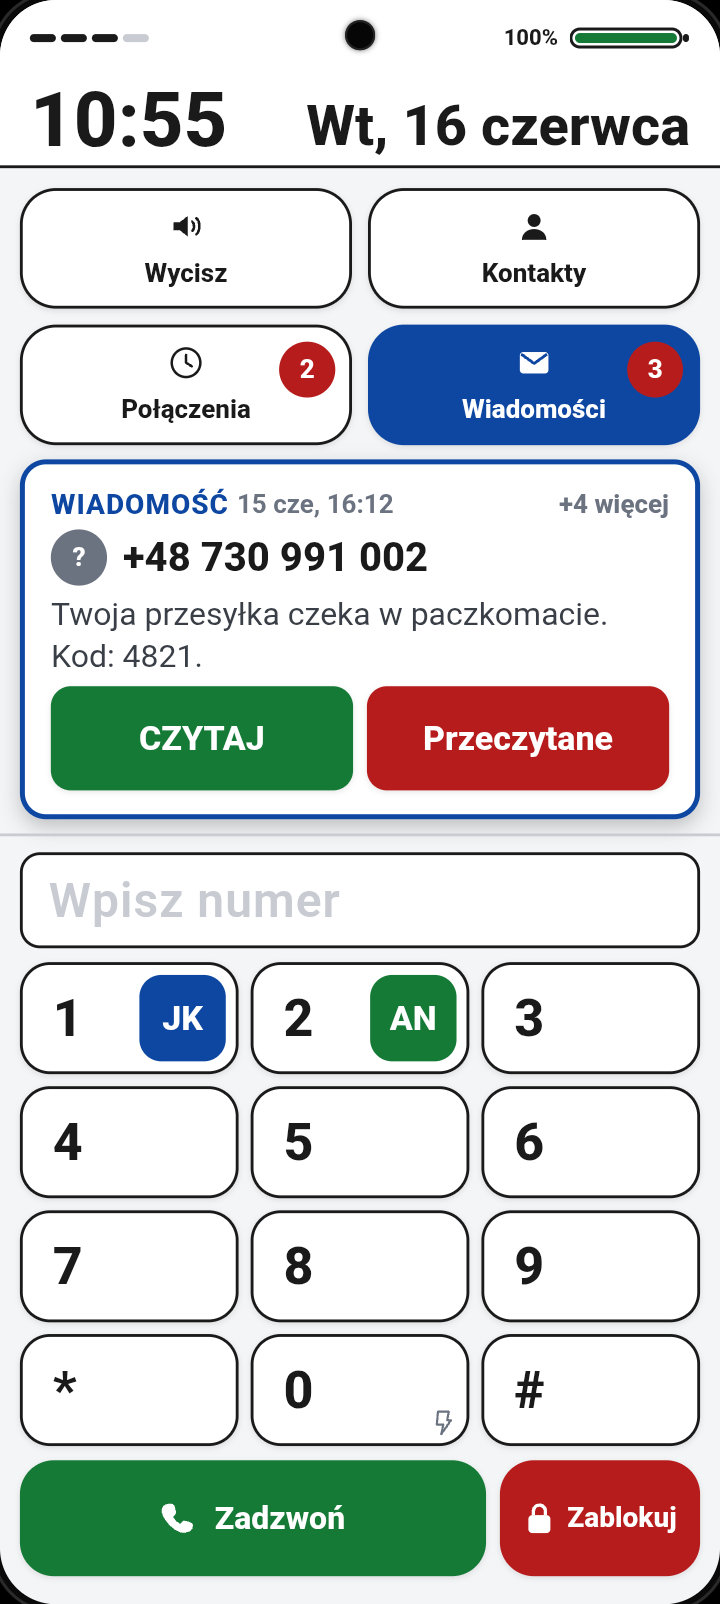
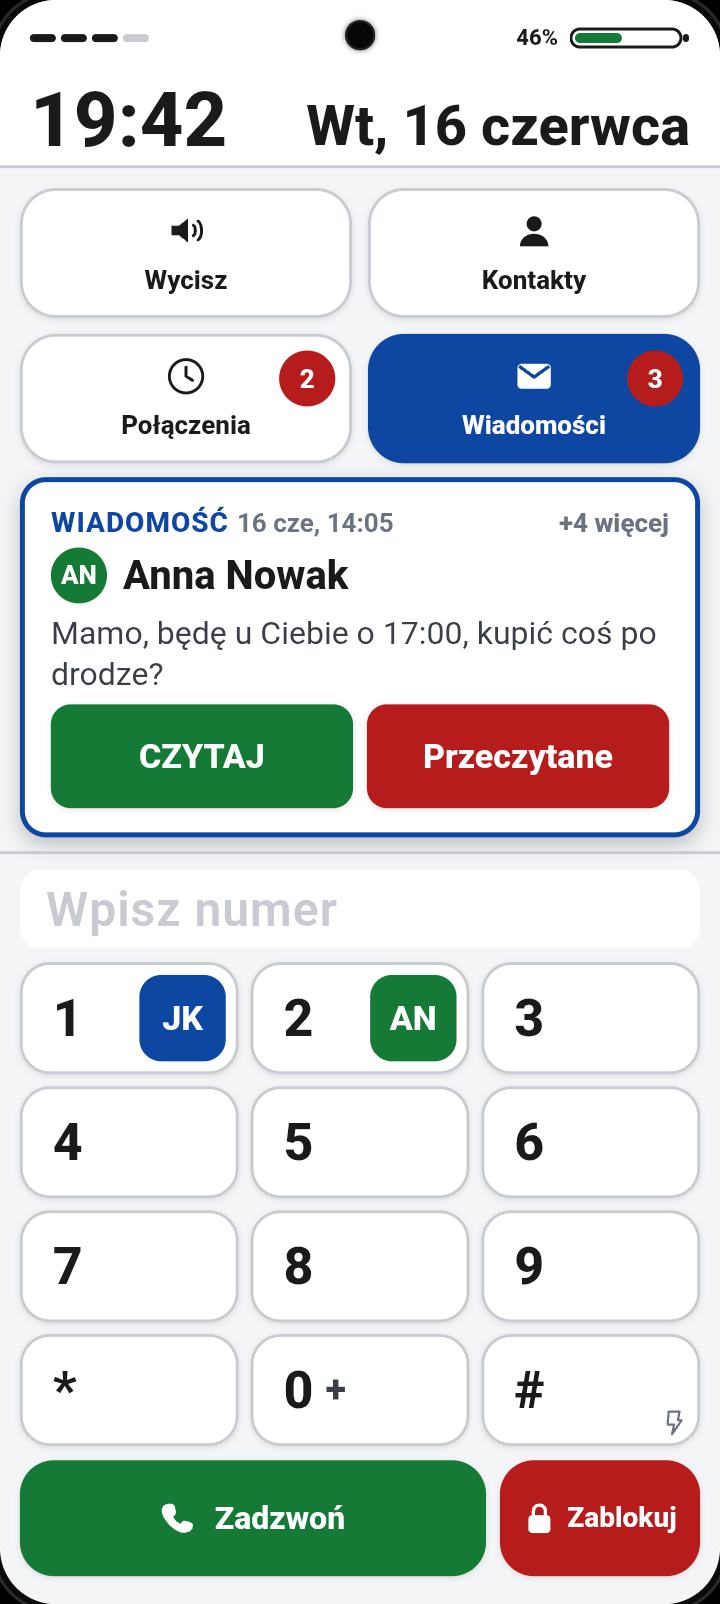
README: nowe zrzuty (13 widoków, w tym bez powiadomień) + redakcja
- Galeria od nowa: 13 zrzutów wg spisu widoków, w tym wariant "Główny bez
  powiadomień", wideorozmowa, ostatnie połączenia z osobą, blokada ekranu.
- Spis widoków: "Ostatnie połączenia z tą osobą" (zamiast "z tym numerem").
- "Jak działa?" wchłania funkcje (bez osobnego podnagłówka "Funkcje").
- Dopisane funkcje: klawiatura tonowa w rozmowie (wyświetlacz w stylu pola
  "Wpisz numer"), sygnał "najpierw wpisz numer" (miganie pola tylko przy
  świadomym Zadzwoń), czytelny badge liczby w obu motywach, oznaczenie
  nieodebranej wideorozmowy na liście Połączeń.

diff --git a/README.md b/README.md
@@ -15,13 +15,17 @@ Czysty **vanilla HTML/CSS/JS**, bez frameworków i zależności.
 
 ## Galeria
 
-| Główny | Kontakty | Wiadomości |
+| Główny | Główny (bez powiadomień) | Kontakty |
 |:---:|:---:|:---:|
-| ![Główny](screenshots/01-home.png) | ![Kontakty](screenshots/02-kontakty.png) | ![Wiadomości](screenshots/03-wiadomosci.png) |
-| **Czytanie wiadomości** | **Połączenia** | **Połączenie przychodzące** |
-| ![Czytanie wiadomości](screenshots/04-wiadomosc.png) | ![Połączenia](screenshots/05-polaczenia.png) | ![Przychodzące](screenshots/06-przychodzace.png) |
-| **Rozmowa** | **Potwierdzenie dzwonienia** | **Tryb ciemny** |
-| ![Rozmowa](screenshots/07-rozmowa.png) | ![Potwierdzenie](screenshots/08-potwierdzenie.png) | ![Tryb ciemny](screenshots/09-ciemny.png) |
+| ![Główny](screenshots/01-home.png) | ![Główny bez powiadomień](screenshots/02-home-bez-powiadomien.png) | ![Kontakty](screenshots/03-kontakty.png) |
+| **Wiadomości** | **Czytanie wiadomości** | **Połączenia** |
+| ![Wiadomości](screenshots/04-wiadomosci.png) | ![Czytanie wiadomości](screenshots/05-wiadomosc.png) | ![Połączenia](screenshots/06-polaczenia.png) |
+| **Ostatnie połączenia z tą osobą** | **Połączenie przychodzące** | **Rozmowa** |
+| ![Ostatnie połączenia z tą osobą](screenshots/07-ostatnie.png) | ![Połączenie przychodzące](screenshots/08-przychodzace.png) | ![Rozmowa](screenshots/09-rozmowa.png) |
+| **Wideorozmowa** | **Potwierdzenie połączenia** | **Blokada ekranu** |
+| ![Wideorozmowa](screenshots/10-wideorozmowa.png) | ![Potwierdzenie połączenia](screenshots/11-potwierdzenie.png) | ![Blokada ekranu](screenshots/12-blokada.png) |
+| **Tryb ciemny** | | |
+| ![Tryb ciemny](screenshots/13-ciemny.png) | | |
 
 ---
 
@@ -36,7 +40,7 @@ Makieta prostego launchera dla osoby starszej, działająca jako aplikacja webow
 - Wiadomości
 - Czytanie wiadomości
 - Połączenia
-- Połączenia z tym numerem
+- Ostatnie połączenia z tą osobą
 - Połączenie przychodzące
 - Rozmowa (aktywne połączenie)
 - Wideorozmowa (aktywne połączenie)
@@ -106,14 +110,15 @@ Okno nakładkowe na przyciemnionym tle, przed każdym połączeniem.
 - Tytuł „Połączenia" (bez cofania).
 - Lista: ikona kierunku, nazwa, opis i — w jednym rzędzie — czas trwania, np. „Odebrane · 5 min 23 s"; po prawej data i godzina.
 - Kodowanie potrójne: kolor, kształt strzałki, słowo (nieodebrane czerwone, odebrane zielone, wykonane niebieskie).
+- **Nieodebrana wideorozmowa** jest na liście oznaczona osobno („Nieodebrana wideorozmowa"), nie jako zwykłe „Nieodebrane".
 - **Nieobejrzane nieodebrane na górze**, pod nimi etykieta „Sprawdzone" (odebrane/wykonane oraz nieodebrane już obejrzane).
 - Czerwony przycisk **Powiadomienia** na dole.
 
-### Połączenia z tym numerem
+### Ostatnie połączenia z tą osobą
 - Historia połączeń z danym numerem, w stylu listy połączeń, z dokładnymi datami i czasem trwania.
 - Łączy świeże połączenia (z bieżącej sesji, w tym symulowane) z wcześniejszą historią; najnowsze na górze.
 - Dla numeru bez żadnych połączeń pokazuje „Brak wcześniejszych połączeń".
-- Dolny przycisk wraca do źródła: **Kontakty**, **Połączenia** albo **Wiadomość** (zależnie skąd otwarto).
+- Dolny przycisk wraca do źródła: **Kontakty**, **Połączenia**, **Wiadomość** albo **Powiadomienia** (zależnie skąd otwarto).
 
 ### Połączenie przychodzące
 - Nagłówek „Połączenie przychodzące" lub „Wideorozmowa przychodząca".
@@ -138,8 +143,7 @@ Okno nakładkowe na przyciemnionym tle, przed każdym połączeniem.
 
 ## Jak działa?
 
-### Funkcje (prawdziwe, działają same w sobie)
-Te funkcje działają realnie w makiecie (część efektu fizycznego — jak zapalenie diody latarki czy wyjście do systemu — leży poza możliwościami aplikacji webowej; wzmianki o tym w „Symulacje").
+Funkcje działają realnie w makiecie i nie wymagają niczego z zewnątrz (część efektu fizycznego — jak zapalenie diody latarki czy wyjście do systemu — leży poza możliwościami aplikacji webowej; wzmianki o tym w „Symulacje").
 
 - **Latarka** — przytrzymaj klawisz **0** na klawiaturze. Włącza/wyłącza; ikona latarki na klawiszu się podświetla.
 - **Wyciszenie / odciszenie** — przytrzymaj kafel **Wycisz** (napis zmienia się na „Odcisz"); blokuje wibracje i dźwięki.
@@ -148,6 +152,8 @@ Te funkcje działają realnie w makiecie (część efektu fizycznego — jak zap
 - **Odblokowanie** — **przeciągnij** ekran blokady w górę (kłódka jedzie za palcem); odpowiednik czytnika odcisku.
 - **Szybkie wybieranie ulubionych** — przytrzymaj klawisz **1, 2, 3…**, dzwoni kolejno do ulubionych z listy.
 - **Sekretne wrota do natywnego ekranu telefonu** — przytrzymaj strefę baterii (bzyk), a potem w kilka sekund strefę zasięgu (bzyk).
+- **Klawiatura tonowa w rozmowie** — w trakcie aktywnego połączenia zielony przycisk **Klaw.** (ze strzałką ▲/▼, po lewej od **Rozłącz**) wysuwa klawiaturę 0-9 oraz `*` `#`; wybierane cyfry pojawiają się na **wyświetlaczu w tym samym stylu co pole „Wpisz numer"** (jak wybieranie tonowe w menu IVR), a licznik czasu rozmowy leci dalej. Ponowne dotknięcie chowa klawiaturę; każde otwarcie/zakończenie rozmowy zaczyna od stanu schowanego i czyści wpisane cyfry.
+- **Sygnał „najpierw wpisz numer"** — naciśnięcie zielonego **Zadzwoń** przy **pustym** polu numeru miga polem „Wpisz numer" (krótka animacja) i bzyczy, zamiast nic nie robić. Miganie pojawia się **wyłącznie** przy tym świadomym kliknięciu — nie przy powrotach na ekran główny ani przy wpisaniu (osobny, dopracowany przypadek brzegowy, by powrót przyciskiem „Powiadomienia" nie wyzwalał fałszywego mignięcia).
 - **Zakończone rozmowy trafiają na listę „Połączenia"** — każda rozmowa dopisuje się do historii po zakończeniu: wychodząca jako „Wykonane" (z czasem trwania), odebrana przychodząca jako „Odebrane", a odrzucona przychodząca jako „Nieodebrane". Pojawiają się też w „Ostatnich połączeniach z tą osobą".
 
 ### Powiadomienia jako kolejka do przeglądania
@@ -157,7 +163,7 @@ Te funkcje działają realnie w makiecie (część efektu fizycznego — jak zap
 
 ### Grupowanie powiadomień po numerze
 - **Wiele zdarzeń z jednego numeru = jedno powiadomienie.** Jeśli ta sama osoba napisze kilka razy lub zadzwoni kilka razy, w panelu jest **jedna** karta (pokazuje najnowsze zdarzenie), nie kilka osobnych.
-- **Liczba na przycisku akcji** pokazuje, ilu zdarzeń dotyczy grupa (gdy więcej niż jedno): „CZYTAJ ③" = 3 nieprzeczytane wiadomości z tego numeru, „ODDZWOŃ ③" = 3 nieodebrane połączenia z tego numeru.
+- **Liczba na przycisku akcji** pokazuje, ilu zdarzeń dotyczy grupa (gdy więcej niż jedno): „CZYTAJ ③" = 3 nieprzeczytane wiadomości z tego numeru, „ODDZWOŃ ③" = 3 nieodebrane połączenia z tego numeru. Znacznik z liczbą ma białe tło i czytelny napis **w obu motywach** (w trybie ciemnym napis pozostaje czarny, żeby nie zlał się z białym tłem).
 - **Jedna reakcja załatwia całą grupę.** „CZYTAJ"/„Przeczytane" oznacza **wszystkie** wiadomości z danego numeru jako przeczytane i zdejmuje grupę. „ODDZWOŃ"/„Odrzuć" oznacza **wszystkie** nieodebrane z tego numeru jako sprawdzone. Tak samo przeczytanie z listy Wiadomości oznacza całą grupę z numeru.
 - **Licznik „+N więcej"** i **znaczniki na kaflach** liczą **osoby/numery**, nie pojedyncze sztuki (3 nieodebrane od Jana liczą się jako 1).
 - **Lista „Połączenia"** to historia — pokazuje pojedyncze zdarzenia osobno (jak w zwykłym telefonie); grupowanie dotyczy tylko panelu powiadomień i znaczników.